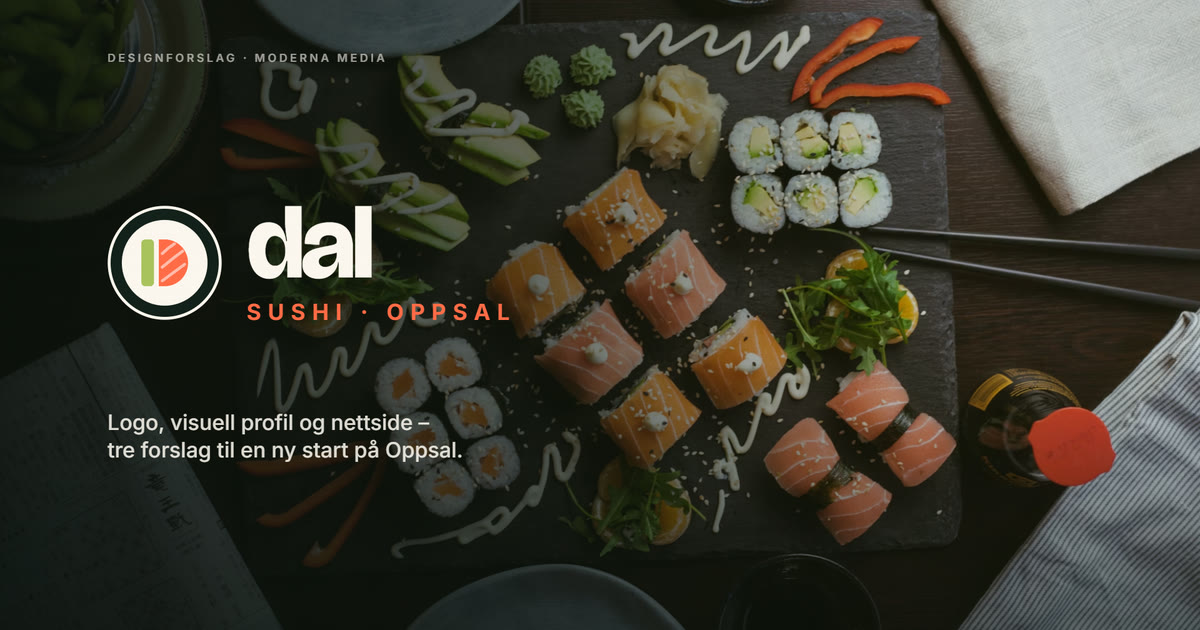
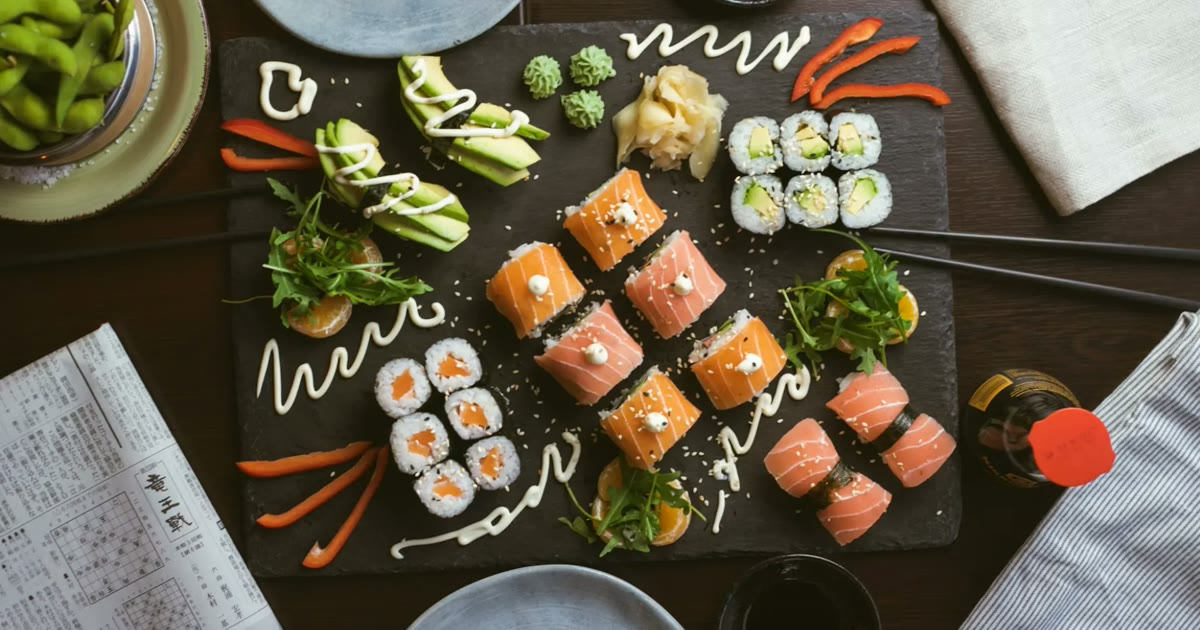
feat(case-studies): list Dal Sushi and CutnColors with neutral wording
Both are on /case-studies now (still noindex). The text reads as our own work,
neither as a client project nor as a proposal: «retninger» instead of
«forslag», no «presentasjon», and the Dal Sushi share image is the hero photo
without the «Designforslag» label.

diff --git a/ModernaMediaAngular/src/app/case-studies/cases/dal-sushi.ts b/ModernaMediaAngular/src/app/case-studies/cases/dal-sushi.ts
@@ -19,15 +19,14 @@ export const DAL_SUSHI: CaseStudy = {
   slug: 'dal-sushi',
   client: 'Dal Sushi',
   title:
-    'Dal Sushi: logo, visuell profil og tre nettsideforslag til ny sushibar på Oppsal',
+    'Dal Sushi: logo, visuell profil og tre nettsideretninger for sushibaren på Oppsal',
   heroTitle: 'En fersk start for Dal Sushi',
   subtitle:
     'Soya Sushi la ned, og Dal Sushi tok over lokalet i Vetlandsveien. Vi laget logo, visuell profil og tre retninger for nettsiden – og en kort video som forklarer valgene.',
   summary:
-    'Dal Sushi er en ny sushi-takeaway på Oppsal i Oslo, i lokalet der Soya Sushi holdt til. De hadde verken logo, profil eller nettside. Vi tegnet en logo som fungerer overalt, bygde en visuell profil rundt den og laget tre forslag til nettside – fra moderne takeaway med bestilling til en rolig, norsk nabolagsside og en fargerik fast food-sjappe.',
-  // Design proposal Dal Sushi hasn't approved yet: reachable by link only.
+    'Dal Sushi er en ny sushi-takeaway på Oppsal i Oslo, i lokalet der Soya Sushi holdt til. De hadde verken logo, profil eller nettside. Vi tegnet en logo som fungerer overalt, bygde en visuell profil rundt den og tegnet tre retninger for nettsiden – fra moderne takeaway med bestilling til en rolig, norsk nabolagsside og en fargerik fast food-sjappe.',
+  // Our own concept work, not a client project: listed, but kept out of search engines.
   indexable: false,
-  listed: false,
   kind: 'concept',
   heroImage: '/assets/img/case/dal-sushi-1280.webp',
   heroImageSrcset: [640, 1280, 1920]
@@ -39,33 +38,32 @@ export const DAL_SUSHI: CaseStudy = {
   heroOverlay:
     'linear-gradient(100deg, rgba(10, 18, 15, 0.94) 0%, rgba(10, 18, 15, 0.76) 45%, rgba(19, 32, 27, 0.3) 100%)',
   ogImage: '/assets/img/case/dal-sushi-og.jpg',
-  cardImage: '/assets/img/case/dal-sushi-kort-640.webp',
   industry: 'Restaurant og take-away',
   location: 'Vetlandsveien, Oppsal (Oslo)',
-  timeframe: 'Designforslag, oktober 2026',
+  timeframe: 'Oktober 2026',
   services: [
     'Logodesign',
     'Visuell profil',
-    'Webdesign – tre forslag',
+    'Webdesign – tre retninger',
     'Menydesign',
     'Mobildesign',
-    'Presentasjonsvideo',
+    'Designvideo',
   ],
   stats: [
     { value: '3', label: 'designretninger', description: 'samme logo, tre uttrykk' },
     {
       value: '12',
       label: 'skisser',
-      description: 'forside, meny, mobil og profil per forslag',
+      description: 'forside, meny, mobil og profil per retning',
     },
-    { value: '74 s', label: 'presentasjonsvideo', description: 'forklarer valgene' },
+    { value: '74 s', label: 'designvideo', description: 'forklarer valgene' },
   ],
   sections: [
     {
       title: 'Utgangspunktet: nytt navn, kjent lokale',
       body: [
         'Soya Sushi i Vetlandsveien har lagt ned, og Dal Sushi har tatt over lokalet. Mange i nabolaget kjenner adressen, men ikke navnet – og det fantes verken logo, profil eller nettside.',
-        'Dal Sushi ønsket en ren, moderne og appetittvekkende profil. Den skulle føles tilgjengelig for nabolaget, ikke dyr og «premium».',
+        'Målet var en ren, moderne og appetittvekkende profil som føles tilgjengelig for nabolaget – ikke dyr og «premium».',
       ],
       bulletTitle: 'Dette skulle på plass',
       bullets: [
@@ -85,7 +83,7 @@ export const DAL_SUSHI: CaseStudy = {
       title: 'Logoen: en maki – og en D',
       body: [
         'Logoen er en maki sett ovenfra. Fyllet danner en D for Dal: avokado er stammen, laks er buen. Den er enkel nok til å fungere som app-ikon og favicon, og tydelig nok til skilt, poser og takeaway-esker.',
-        'Vi bestemte tidlig at logoen skulle være lik i alle forslagene. Da kan Dal Sushi velge retning for nettsiden uten å begynne på nytt med merkevaren.',
+        'Vi bestemte tidlig at logoen skulle være lik i alle retningene. Da kan nettsiden ta ulike retninger uten at merkevaren må begynne på nytt.',
       ],
       bulletTitle: 'Profilen inneholder',
       bullets: [
@@ -103,9 +101,9 @@ export const DAL_SUSHI: CaseStudy = {
     {
       title: 'Tre retninger for nettsiden',
       body: [
-        'I stedet for ett forslag laget vi tre, med samme logo men ulikt uttrykk. Det gjør det lettere for Dal Sushi å kjenne seg igjen og velge det som passer driften.',
+        'I stedet for én nettside tegnet vi tre, med samme logo men ulikt uttrykk. Sammen viser de hvordan én merkevare kan passe til ulike måter å drive en sushibar på.',
       ],
-      bulletTitle: 'Forslagene',
+      bulletTitle: 'Retningene',
       bullets: [
         'Moderne takeaway: «Bestill nå» øverst, meny med bilder og handlekurv for henting eller levering.',
         'Rolig og norsk: ingen bestilling og ingen levering – åpningstider, adresse og en enkel meny i dempede farger og vanlig språk.',
@@ -114,35 +112,35 @@ export const DAL_SUSHI: CaseStudy = {
       image: image(
         'tre-retninger',
         [16, 9],
-        'De tre nettsideforslagene til Dal Sushi side om side'
+        'De tre nettsideretningene for Dal Sushi side om side'
       ),
     },
     {
       title: 'Laget for mobilen først',
       body: [
-        'De fleste sjekker åpningstid, meny og telefonnummer på mobilen, gjerne på vei hjem. Derfor er alle tre forslagene tegnet for mobil først, med meny og telefon lett tilgjengelig.',
-        'Til slutt satte vi alt sammen i en video på 74 sekunder. Den går gjennom logoen, de tre retningene og mobilversjonene, så det er lett å vise forslagene videre.',
+        'De fleste sjekker åpningstid, meny og telefonnummer på mobilen, gjerne på vei hjem. Derfor er alle tre retningene tegnet for mobil først, med meny og telefon lett tilgjengelig.',
+        'Til slutt satte vi alt sammen i en video på 74 sekunder som går gjennom logoen, de tre retningene og mobilversjonene.',
       ],
       image: image(
         'mobil',
         [16, 9],
-        'Mobilversjonene av de tre nettsideforslagene til Dal Sushi'
+        'Mobilversjonene av de tre nettsideretningene for Dal Sushi'
       ),
     },
   ],
   showcase: {
-    title: 'Presentasjonsvideoen',
+    title: 'Designet forklart på 74 sekunder',
     videos: [
       {
-        label: 'Se presentasjonen',
-        title: 'Designforslagene på 74 sekunder',
+        label: 'Se videoen',
+        title: 'Designvideoen',
         src: '/assets/Videos/dal-sushi-designforslag.mp4',
         poster: '/assets/img/case/dal-sushi-1280.webp',
         width: 1920,
         height: 1080,
-        name: 'Dal Sushi – logo, visuell profil og tre nettsideforslag',
+        name: 'Dal Sushi – logo, visuell profil og tre nettsideretninger',
         description:
-          'Presentasjonsvideo for Dal Sushi på Oppsal: utgangspunktet, logoen (en maki som danner en D), tre retninger for nettsiden – moderne takeaway, rolig og norsk, og fast food-sjappe – og hvordan alle tre ser ut på mobil.',
+          'Video om designet for Dal Sushi på Oppsal: utgangspunktet, logoen (en maki som danner en D), tre retninger for nettsiden – moderne takeaway, rolig og norsk, og fast food-sjappe – og hvordan alle tre ser ut på mobil.',
         duration: 'PT1M14S',
         uploadDate: '2026-10-11',
       },
@@ -152,55 +150,55 @@ export const DAL_SUSHI: CaseStudy = {
     image(
       'v1-forside',
       [16, 10],
-      'Forslag 1, moderne takeaway: forside med «Bestill nå» og matbilde',
-      'Forslag 1 · Moderne takeaway – forside'
+      'Retning 1, moderne takeaway: forside med «Bestill nå» og matbilde',
+      'Retning 1 · Moderne takeaway – forside'
     ),
     image(
       'v2-forside',
       [16, 10],
-      'Forslag 2, rolig og norsk: forside med åpningstider og adresse øverst',
-      'Forslag 2 · Rolig og norsk – forside'
+      'Retning 2, rolig og norsk: forside med åpningstider og adresse øverst',
+      'Retning 2 · Rolig og norsk – forside'
     ),
     image(
       'v3-forside',
       [16, 10],
-      'Forslag 3, fast food-sjappe: gul forside med store bokstaver og lunsjtilbud',
-      'Forslag 3 · Fast food-sjappe – forside'
+      'Retning 3, fast food-sjappe: gul forside med store bokstaver og lunsjtilbud',
+      'Retning 3 · Fast food-sjappe – forside'
     ),
     image(
       'v1-meny',
       [16, 10],
-      'Forslag 1: meny med kategorier, bilder og handlekurv',
+      'Retning 1: meny med kategorier, bilder og handlekurv',
       'Meny med handlekurv'
     ),
     image(
       'v2-meny',
       [16, 10],
-      'Forslag 2: enkel menyliste med priser',
+      'Retning 2: enkel menyliste med priser',
       'Meny som en rolig liste'
     ),
     image(
       'v3-meny',
       [16, 10],
-      'Forslag 3: menytavle med nummererte menyer',
+      'Retning 3: menytavle med nummererte menyer',
       'Menytavle med nummer'
     ),
     image(
       'v1-profil',
       [16, 10],
-      'Profilside for forslag 1 med logo og laks på mørk bakgrunn',
+      'Profilside for retning 1 med logo og laks på mørk bakgrunn',
       'Profil · Ren, fersk og fristende'
     ),
     image(
       'v2-profil',
       [16, 10],
-      'Profilside for forslag 2 i rolige, dempede farger',
+      'Profilside for retning 2 i rolige, dempede farger',
       'Profil · Rolig, enkel og til å stole på'
     ),
     image(
       'v3-profil',
       [16, 10],
-      'Profilside for forslag 3 i gult med tekst i store bokstaver',
+      'Profilside for retning 3 i gult med tekst i store bokstaver',
       'Profil · Fast food-sushi, gjort ordentlig'
     ),
   ],
@@ -208,11 +206,11 @@ export const DAL_SUSHI: CaseStudy = {
     {
       title: 'Logo og visuell profil',
       description:
-        'En maki som danner en D, med farger, typografi, bildestil og tone samlet på én profilside per forslag.',
+        'En maki som danner en D, med farger, typografi, bildestil og tone samlet på én profilside per retning.',
       icon: 'star',
     },
     {
-      title: 'Tre nettsideforslag',
+      title: 'Tre nettsideretninger',
       description:
         'Forside og meny i tre retninger – fra bestilling med handlekurv til en rolig menyliste og en menytavle med nummer.',
       icon: 'globe',
@@ -220,19 +218,19 @@ export const DAL_SUSHI: CaseStudy = {
     {
       title: 'Mobilversjoner',
       description:
-        'Alle forslagene er tegnet for mobil først, med meny og telefon lett tilgjengelig.',
+        'Alle retningene er tegnet for mobil først, med meny og telefon lett tilgjengelig.',
       icon: 'smartphone',
     },
     {
-      title: 'Presentasjonsvideo',
+      title: 'Designvideo',
       description:
-        '74 sekunder som forklarer valgene – laget for å vise forslagene til kunden.',
+        '74 sekunder som går gjennom logoen, de tre retningene og valgene bak dem.',
       icon: 'film',
     },
   ],
-  seoTitle: 'Case: Dal Sushi – logo, profil og nettsideforslag på Oppsal',
+  seoTitle: 'Case: Dal Sushi – logo, profil og nettside på Oppsal',
   seoDescription:
-    'Logo, visuell profil og tre nettsideforslag for Dal Sushi, ny sushi-takeaway i Vetlandsveien på Oppsal. Se presentasjonsvideoen og alle forslagene.',
+    'Logo, visuell profil og tre nettsideretninger for Dal Sushi, sushi-takeaway i Vetlandsveien på Oppsal. Se designvideoen og alle retningene.',
   datePublished: '2026-10-11',
   dateModified: '2026-10-11',
 };

diff --git a/ModernaMediaAngular/src/app/case-studies/cases/cut-n-colors.ts b/ModernaMediaAngular/src/app/case-studies/cases/cut-n-colors.ts
@@ -1,8 +1,8 @@
 import type { CaseStudy, CaseStudyMedia } from '../case-studies.data';
 
-// CutnColors – redesign proposal for the hair salon at Storo (Prosjekter/Cut n Colors: design, Figma file
-// kuVJ1JKjaumRmjWEv3itNK, video). A case study for a potential customer, not a customer story: no client
-// quote and no results. The page stays out of search and the case lists (link only).
+// CutnColors – concept work for the hair salon at Storo (Prosjekter/Cut n Colors: design, Figma file
+// kuVJ1JKjaumRmjWEv3itNK, video). Our own case study, not a client story: no client quote and no
+// results, and neutral wording (no «forslag»). Listed on /case-studies, kept out of search engines.
 // No website link on purpose: the live site is not this design, and a link invites a before/after comparison.
 // Real: prices and durations, the 14 hairdressers, opening hours, address and the salon's own photos.
 
@@ -20,14 +20,13 @@ const image = (name: string, widths: number[], height: number, alt: string, capt
 export const CUT_N_COLORS: CaseStudy = {
   slug: 'cut-n-colors',
   client: 'CutnColors',
-  title: 'CutnColors: designforslag for frisøren på Storo',
+  title: 'CutnColors: ny nettside og enklere booking for frisøren på Storo',
   heroTitle: 'Samme enkle konsept – skarpere uttrykk',
   subtitle:
     'Ny nettside, booking på tre måter og en plan for å bli funnet på «frisør Storo» – for en rask og rimelig frisør ved BI Nydalen.',
   summary:
-    'CutnColors på Storo har et konsept som funker: rask klipp, faste priser og lange åpningstider. Vi laget et forslag til ny nettside som gir konseptet et like effektivt uttrykk, med salongens egne bilder, en tydelig prisliste og booking som alltid er ett trykk unna.',
+    'CutnColors på Storo har et konsept som funker: rask klipp, faste priser og lange åpningstider. Vi tegnet en ny nettside som gir konseptet et like effektivt uttrykk, med salongens egne bilder, en tydelig prisliste og booking som alltid er ett trykk unna.',
   indexable: false,
-  listed: false,
   kind: 'concept',
   heroImage: `${C}cut-n-colors-1280.webp`,
   heroImageSrcset: `${C}cut-n-colors-640.webp 640w, ${C}cut-n-colors-1280.webp 1280w, ${C}cut-n-colors-1920.webp 1920w`,
@@ -39,7 +38,7 @@ export const CUT_N_COLORS: CaseStudy = {
   ogImage: `${C}cut-n-colors-og.jpg`,
   industry: 'Frisør',
   location: 'Storo, Oslo',
-  timeframe: 'Designforslag, oktober 2026',
+  timeframe: 'Oktober 2026',
   services: ['Webdesign', 'Booking med Timma, skjema og telefon', 'Lokal SEO', 'Logo-opprydding', 'Trailer'],
   stats: [
     { value: '3', label: 'Veier til time', description: 'Timma, skjema og telefon' },
@@ -118,18 +117,18 @@ export const CUT_N_COLORS: CaseStudy = {
     },
   ],
   showcase: {
-    title: 'Designforslaget forklart på 84 sekunder',
+    title: 'Designet forklart på 84 sekunder',
     intro:
-      'CutnColors har et konsept som funker – derfor handler forslaget om uttrykket og veien til time. I videoen viser vi hvordan farger, prisliste, booking på tre måter og mobilversjonen kan gi salongen flere bookinger og bedre synlighet på Storo.',
+      'CutnColors har et konsept som funker – derfor handler designet om uttrykket og veien til time. I videoen viser vi hvordan farger, prisliste, booking på tre måter og mobilversjonen kan gi salongen flere bookinger og bedre synlighet på Storo.',
     videos: [
       {
-        title: 'Trailer: designforslaget for CutnColors',
+        title: 'Trailer: den nye nettsiden til CutnColors',
         label: 'Se traileren',
         src: '/assets/Videos/cut-n-colors-designforslag.mp4',
         poster: `${C}cut-n-colors-designforslag-poster-1280.webp`,
         width: 1920,
         height: 1080,
-        name: 'CutnColors – designforslag (trailer)',
+        name: 'CutnColors – trailer for den nye nettsiden',
         description:
           'Trailer som viser konseptet, designet og hvordan den nye nettsiden kan gi CutnColors flere bookinger og bedre synlighet på Storo.',
         duration: 'PT1M24S',
@@ -145,7 +144,7 @@ export const CUT_N_COLORS: CaseStudy = {
           { title: 'Hva CutnColors kan få', start: 70 },
         ],
         transcript:
-          'CutnColors – forslag til ny nettside. Et konsept som funker: Cut’n Run på 20 minutter, 650 kr fast pris og åpent 10–20. Målet: en nettside som jobber like effektivt som salongen – flere bookinger, flere nye kunder og et proft uttrykk. Samme konsept, skarpere uttrykk: farger fra salongen, en ny forside og «Rask klipp. Fast pris.». Nettsiden: booking ett trykk unna, prisene selger jobben, studentene i fokus, teamet med KRED og ekstra inntekt fra events og gavekort. Tre veier til time: book på nett i Timma, send en forespørsel eller ring. Laget for mobilen, der studentene booker. Funnet på «frisør Storo» med Google-profil, strukturerte data og flere anmeldelser. Rask klipp. Fast pris. Rett ved Storo.',
+          'CutnColors – ny nettside. Et konsept som funker: Cut’n Run på 20 minutter, 650 kr fast pris og åpent 10–20. Målet: en nettside som jobber like effektivt som salongen – flere bookinger, flere nye kunder og et proft uttrykk. Samme konsept, skarpere uttrykk: farger fra salongen, en ny forside og «Rask klipp. Fast pris.». Nettsiden: booking ett trykk unna, prisene selger jobben, studentene i fokus, teamet med KRED og ekstra inntekt fra events og gavekort. Tre veier til time: book på nett i Timma, send en forespørsel eller ring. Laget for mobilen, der studentene booker. Funnet på «frisør Storo» med Google-profil, strukturerte data og flere anmeldelser. Rask klipp. Fast pris. Rett ved Storo.',
       },
     ],
   },
@@ -154,7 +153,7 @@ export const CUT_N_COLORS: CaseStudy = {
       'cut-n-colors-design-forside',
       [1600, 800],
       1000,
-      'Forsiden til CutnColors i designforslaget',
+      'Den nye forsiden til CutnColors',
       'Forsiden: «Rask klipp. Fast pris. Rett ved Storo.» med tre veier til time.'
     ),
     image(
@@ -173,9 +172,9 @@ export const CUT_N_COLORS: CaseStudy = {
     ),
   ],
   cardMetric: { value: '3', label: 'veier til time' },
-  seoTitle: 'Case: CutnColors – designforslag for frisør på Storo',
+  seoTitle: 'Case: CutnColors – nettside for frisør på Storo',
   seoDescription:
-    'Designforslag for frisøren CutnColors på Storo: ny nettside med faste priser, booking via Timma, skjema eller telefon, og lokal SEO for «frisør Storo».',
+    'Ny nettside for frisøren CutnColors på Storo: faste priser, booking via Timma, skjema eller telefon, og lokal SEO for «frisør Storo».',
   datePublished: '2026-10-11',
   dateModified: '2026-10-11',
 };
